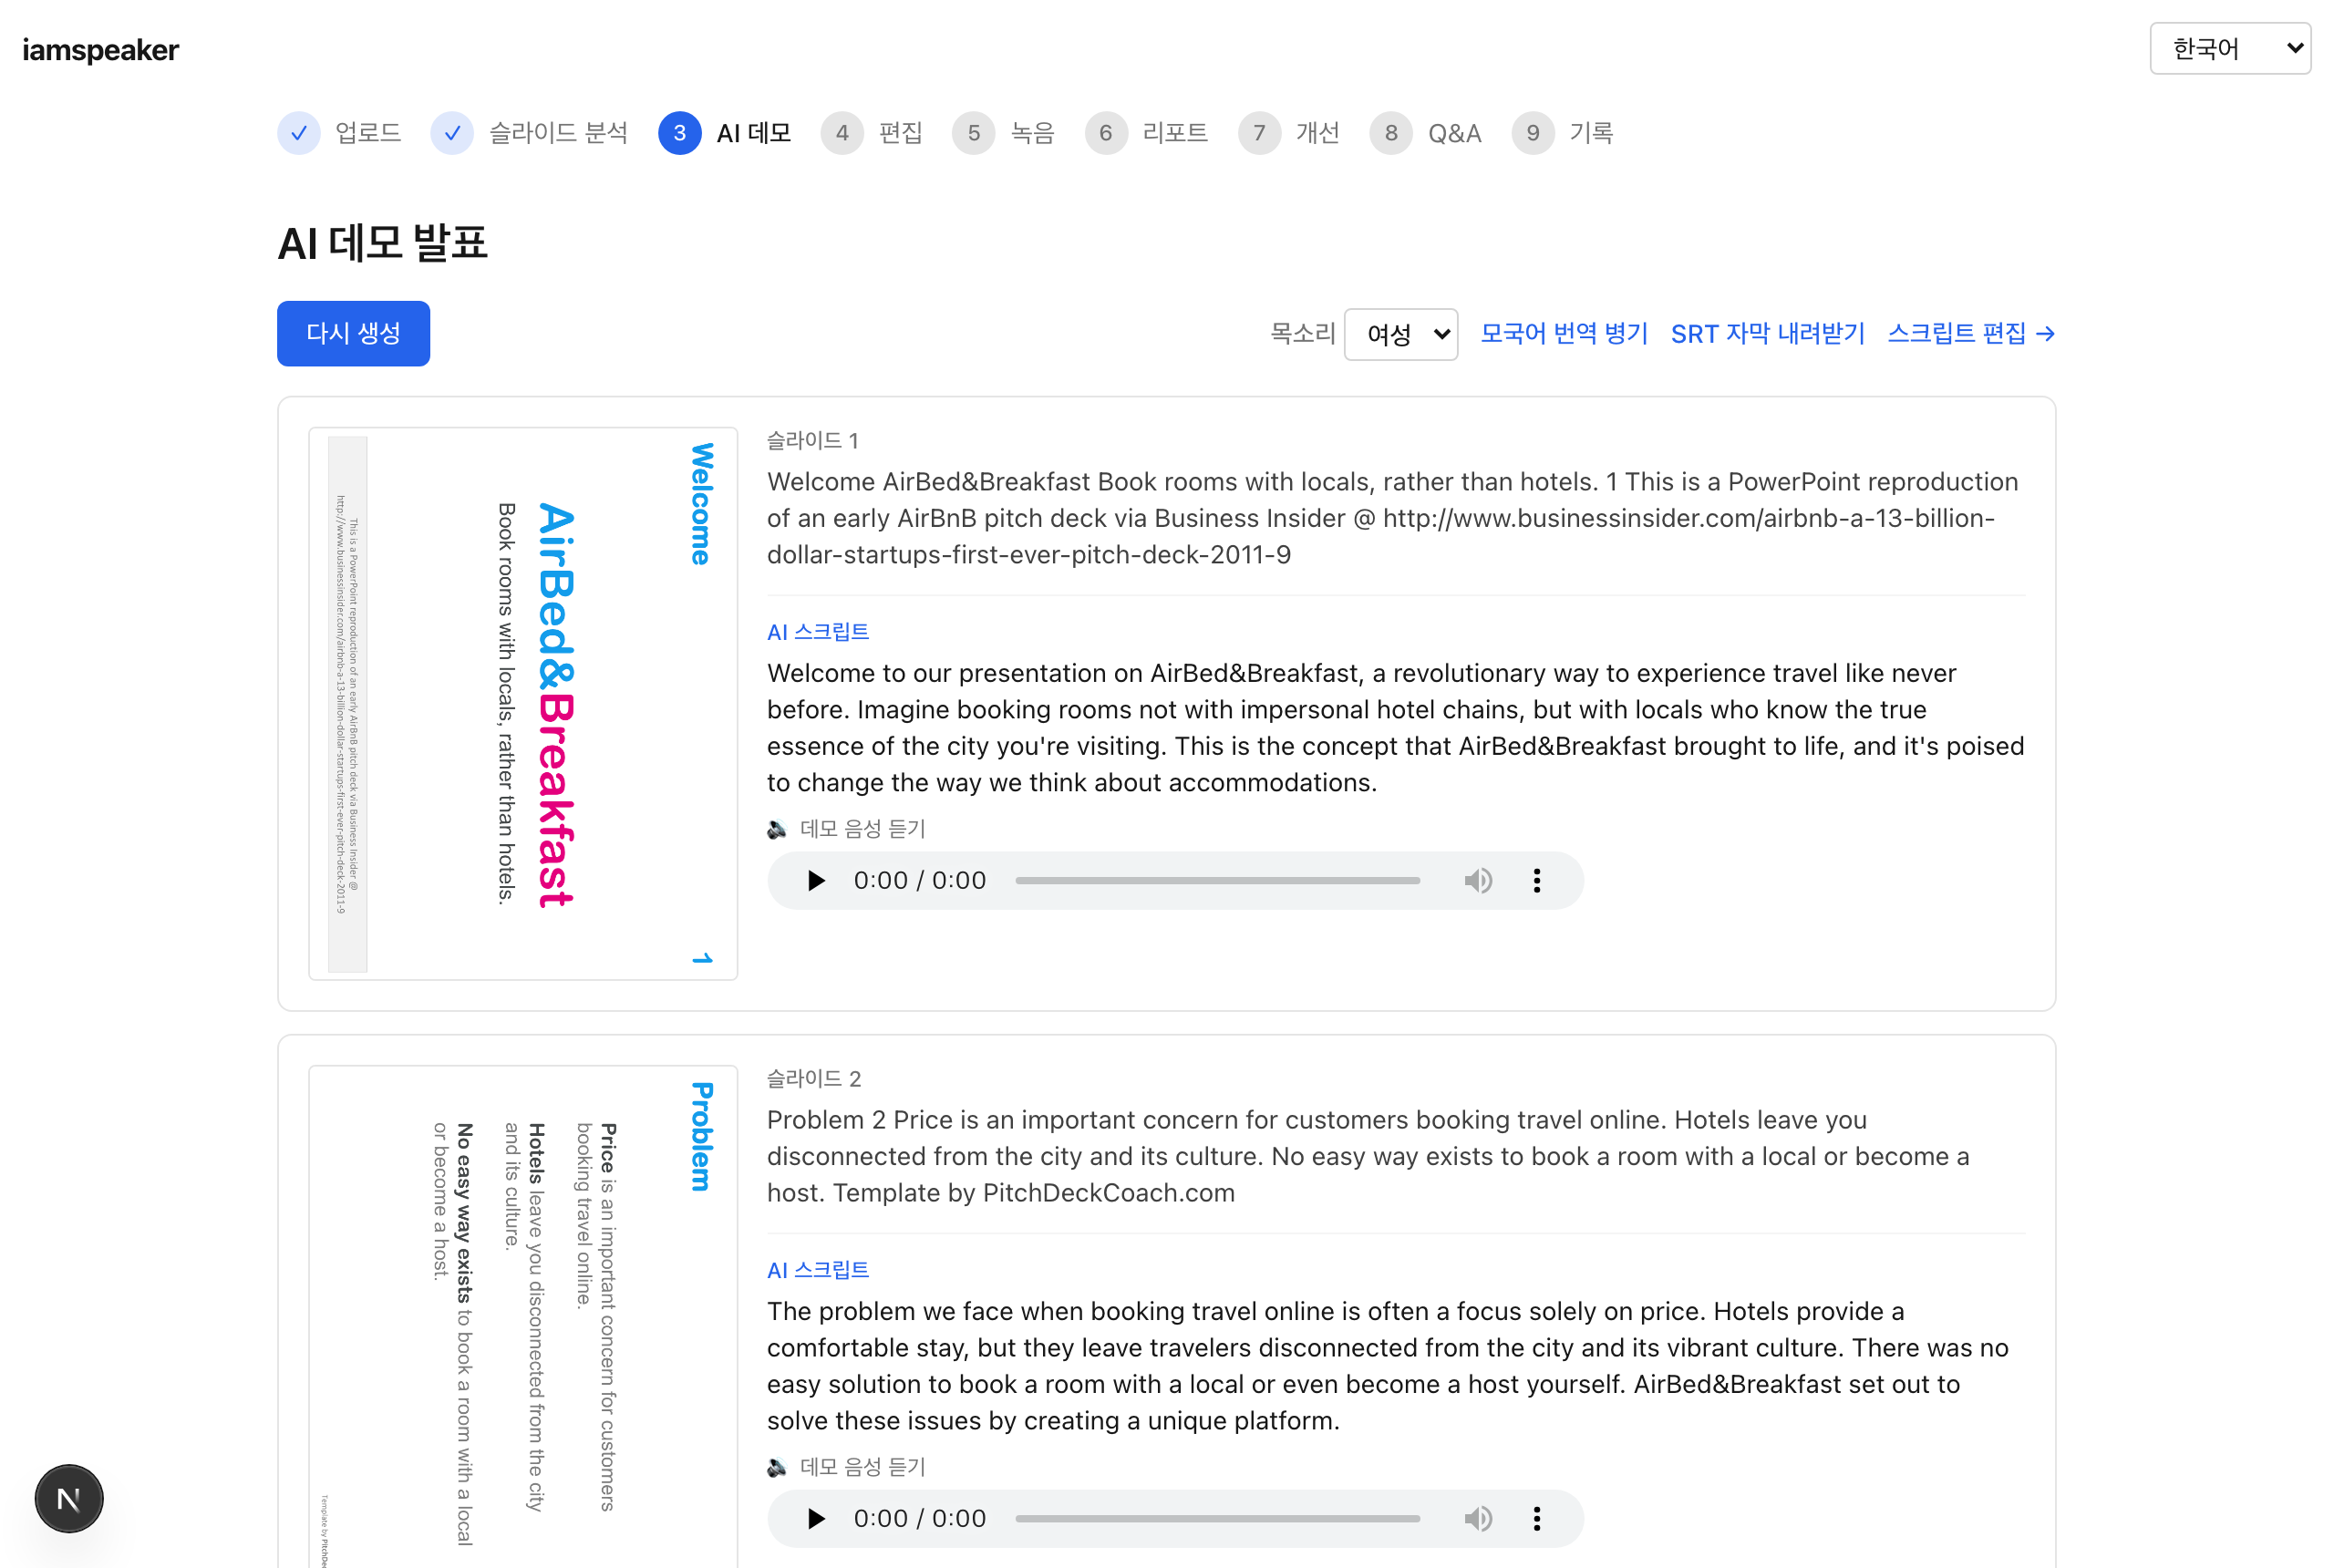
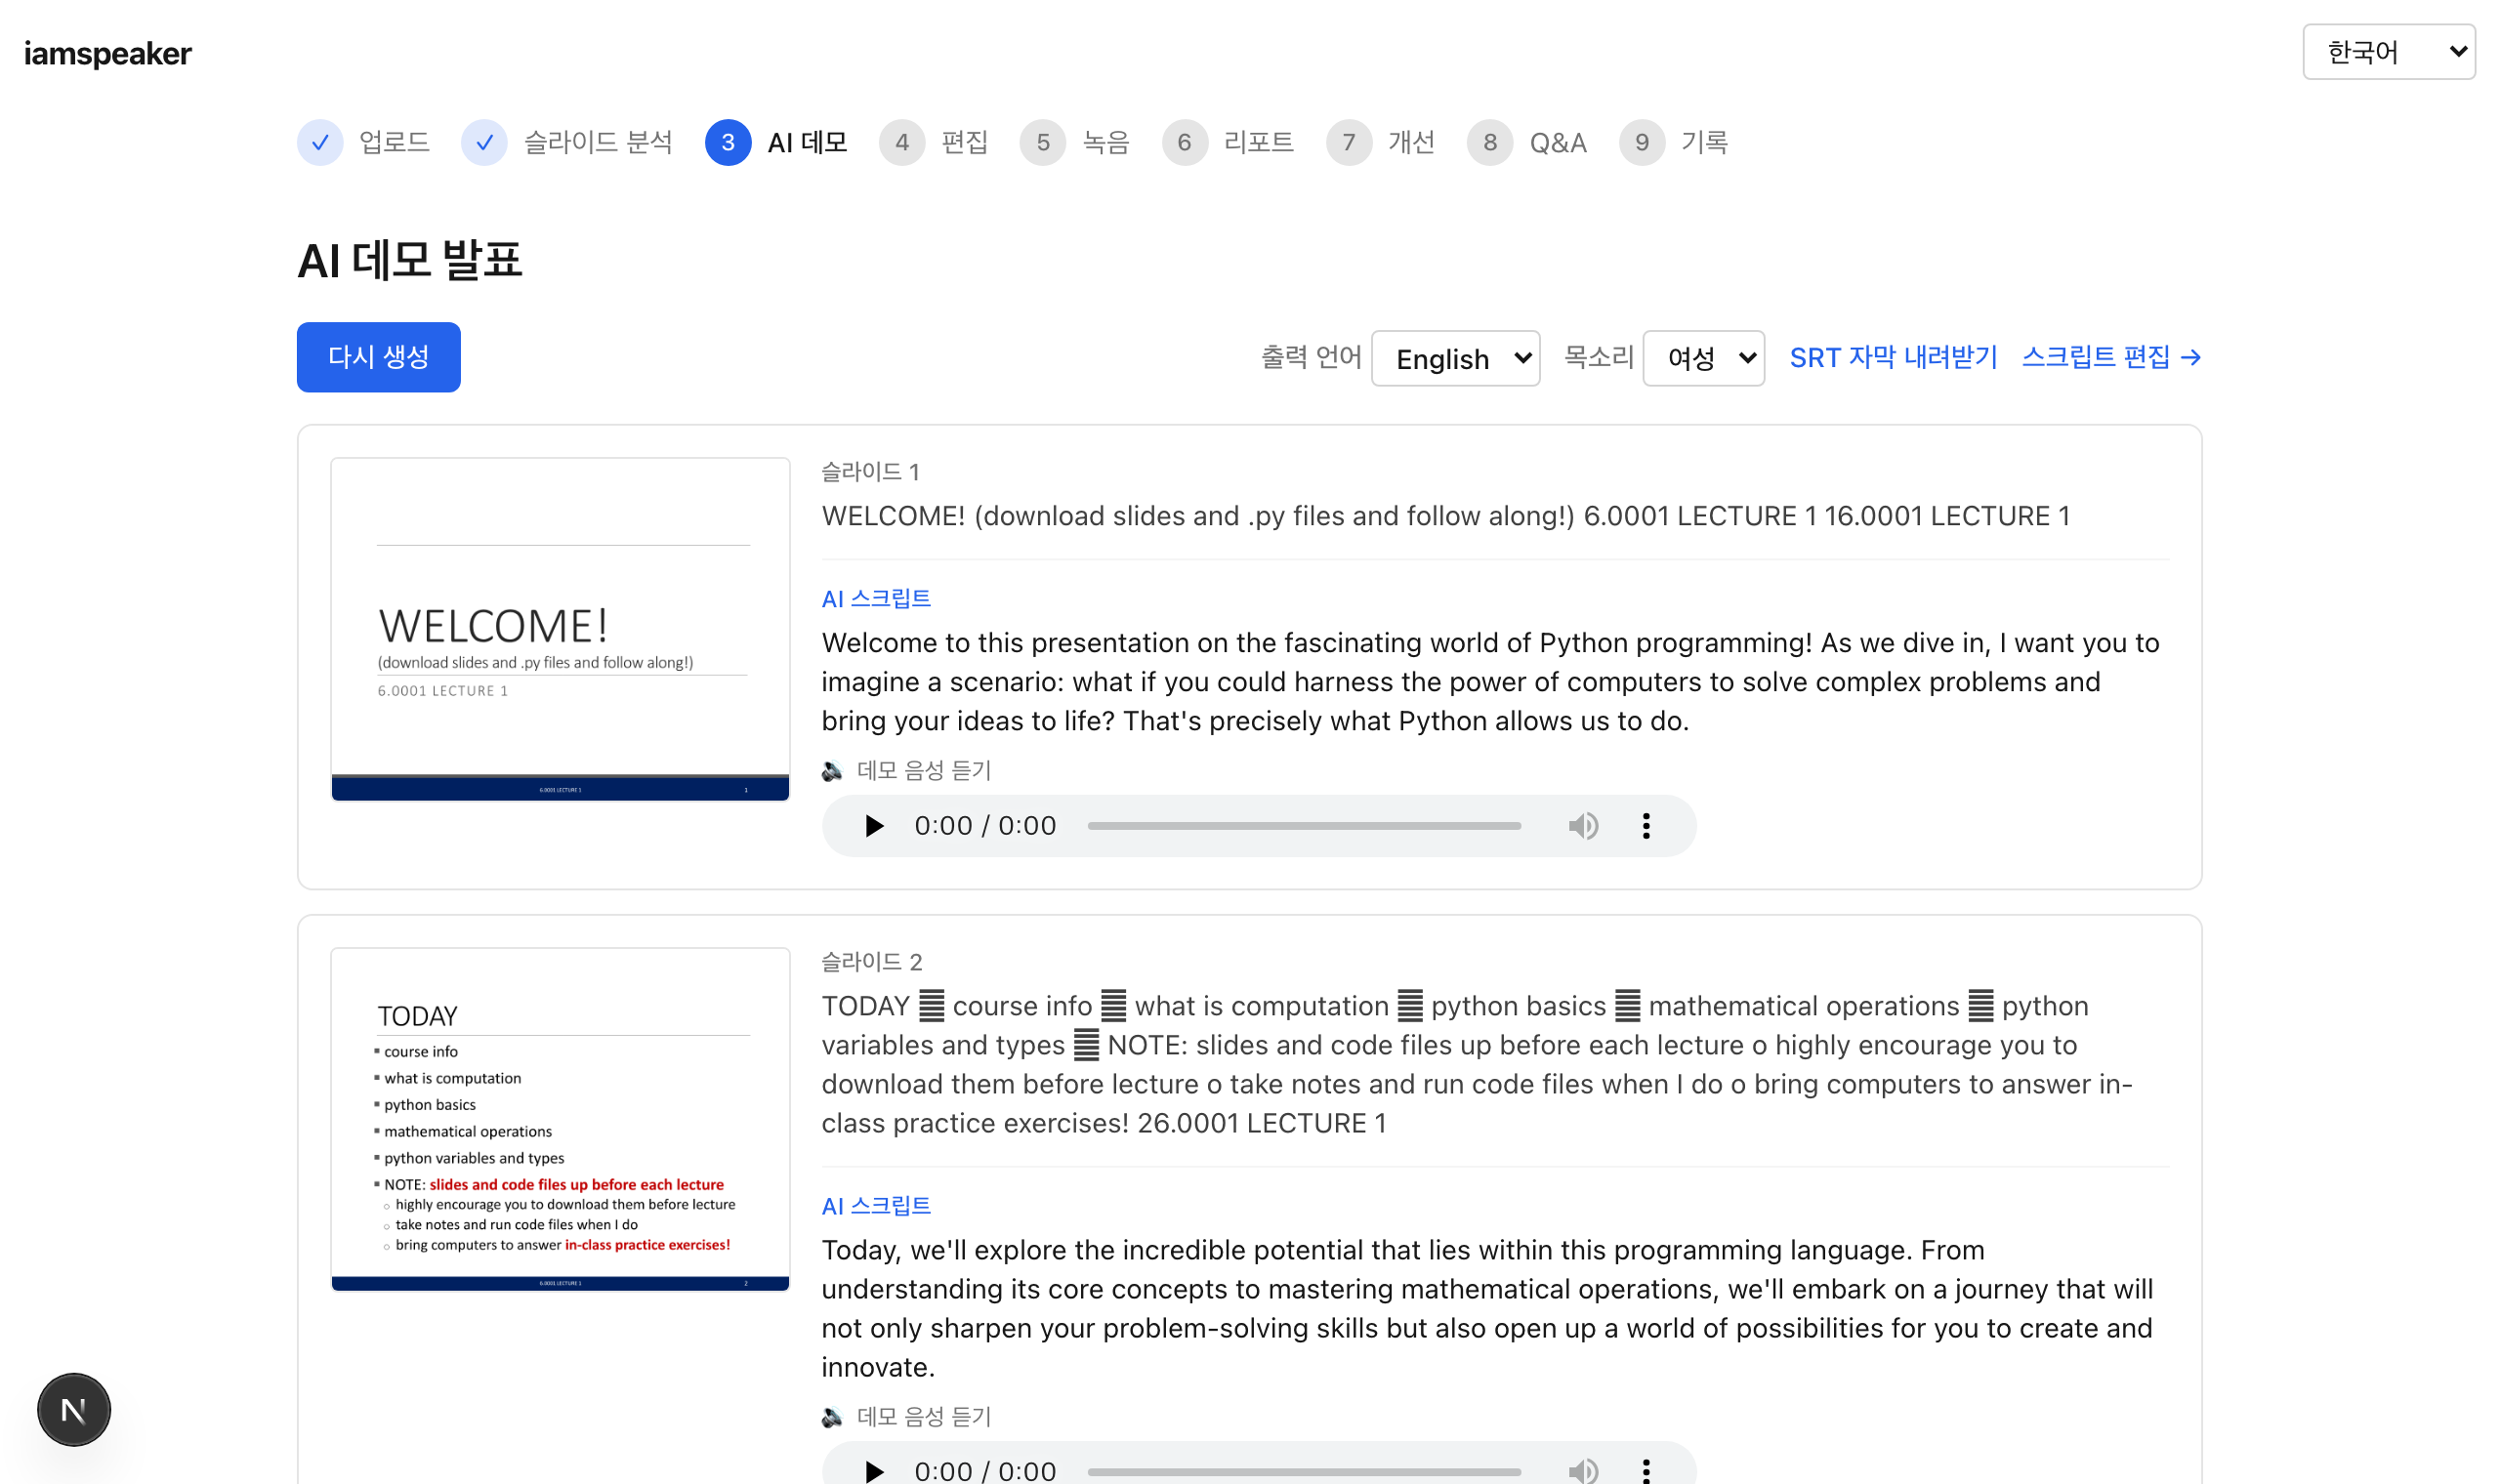
docs: v0.5.0 — README 코칭 확장·다국어 반영 + PROGRESS·데모 스크린샷 갱신
재리뷰 결과(biome0·tsc0·302 pass·TODO0·data안전) 기반 공개 준비 마무리:
- package.json·README(한·영) 배지·상태·기능 문단 v0.4.0→v0.5.0 + 새 축(단어 사용
  적합성[hedging+CEFR]·억양·다국어 출력·GOP 자동) 반영
- 데모 스크린샷(한·영) 정방향 슬라이드+출력 언어 컨트롤로 갱신
- PROGRESS §0 v0.5.0·테스트 302·다음 액션 현행화

diff --git a/PROGRESS.md b/PROGRESS.md
@@ -11,14 +11,14 @@
 |------|-----|
 | 프로젝트 | iamspeaker — 오픈소스 발표 연습 웹앱 (로컬 모델 우선) |
 | 위치 | `/Users/seunghpark/Downloads/iamspeaker` (git main) · GitHub **spark798/iamspeaker (private — 공개 준비 완료, GitHub 설정만 수동)**, **CI 그린** |
-| 현재 단계 | **v0.4.0 — 코치 루프 + 슬라이드 뷰어·리포트 시각화·단어 적합성 + 공개 준비**: (v0.3.0 코치 루프 위에) ①데모 **남성 음성** 옵션(기본 기억) ②**단어 사용 적합성** 축=위험표현/hedging 검출(필러와 별개 — 리포트 cue·improve 주입·데모 생성 회피, 라이브 0건) ③**슬라이드 썸네일 뷰어**(PDF=unpdf+@napi-rs/canvas, PPTX=LibreOffice→PDF, lazy 렌더+캐시 — 핵심 차별점 완성) ④**리포트 게이지 카드**(WPM 범위게이지·발음/전달점수 링, 의존성 0 SVG) ⑤**홈 랜딩**(히어로·3단계·신뢰포인트) ⑥**공개 준비**(README/CONTRIBUTING/storyboard 영어화+.ko 보존·`.github` 영어·한영 스크린샷·소셜카드·메타데이터 정합). |
-| 제품 방향 | **"매일 함께 훈련하는 코치"**(vs 범용 AI=일회성 선생님). 해자=연습 이력 축적 + **프라이버시(100% 로컬)·무료·OSS**. **비동기 사후 리뷰**. **대상=영어 발표를 연습·개선하려는 누구나(원어민 포함)** — 코치 루프(속도·필러·페이스·처방·원칙·**단어 적합성**)는 보편, **L1 발음/표현 교정은 비원어민 보너스**(앱은 nativeLanguage=en이면 native로 정상 동작). ✅완료: ①동기부여 ④루프백 ②처방 코칭 ⑤슬라이드 뷰어·시각화. **폐기**: 실시간. **보류**: GOP 자동 승격·CEFR 어휘수준(자료 확보). |
-| 다음 액션 | **GitHub public 전환**(수동: private→public, 소셜프리뷰 업로드[`docs/img/social-preview.png`], About·Topics) + **도그푸드**(실 발표 3회+ — 가장 중요, 사람). **대중 확장의 핵심 레버 = 설치 마찰 제거(원클릭 Docker / Tauri·Electron 데스크톱 앱)** — 기능·품질보다 *유통*이 병목. niche(프라이버시·기술가능·비용민감)에선 이미 경쟁력 있음. |
-| 최근 갱신 | 2026-06-27 |
+| 현재 단계 | **v0.5.0 — 코칭 확장(단어·억양·다국어) + 공개 준비 완료**: (v0.4.0 슬라이드 뷰어·게이지 위에) ①**단어 사용 적합성** 2축=위험표현(hedging)+**CEFR 고급 어휘**(에디터 라이브 점검·improve/데모 회피 가이드) ②**억양·강세(프로소디)** 분석(녹음 F0 자기상관 → 단조 피치 cue, 순수 TS 의존성0) ③**다국어 출력 마감**=대상 언어 선택 번역·SRT·**번역본 TTS**(es/zh 보이스) ④**GOP 자동 승격**(런타임 감지→wav2vec2/휴리스틱) ⑤홈 카드 실제 제품 썸네일(로케일별). **공개 준비 완료** — 코드/문서/스크린샷/메타데이터 모두 정합. |
+| 제품 방향 | **"매일 함께 훈련하는 코치"**(vs 범용 AI=일회성 선생님). 해자=연습 이력 축적 + **프라이버시(100% 로컬)·무료·OSS**. **비동기 사후 리뷰**. **대상=영어 발표를 연습·개선하려는 누구나(원어민 포함)** — 코치 루프(속도·필러·페이스·처방·원칙·**단어 적합성·억양**)는 보편, **L1 발음/표현 교정은 비원어민 보너스**. ✅완료: 동기부여·루프백·처방 코칭·슬라이드 뷰어·시각화·단어 적합성·억양·다국어출력·GOP자동. **폐기**: 실시간. |
+| 다음 액션 | **GitHub public 전환**(수동: private→public, 소셜프리뷰 업로드[`docs/img/social-preview.png`], About·Topics) + **도그푸드**(실 발표 3회+ — 가장 중요, 사람). 남은 백로그(환경 필요): **유통(원클릭 Docker/데스크톱)**·새기능 E2E·시각회귀·ko/ja 클라우드 TTS. 대중 확장 핵심 레버=설치 마찰 제거(*유통*이 병목). |
+| 최근 갱신 | 2026-06-28 |
 | 셸 준비 | `export PATH="$HOME/.local/bin:$PATH"; . "$HOME/.nvm/nvm.sh"; nvm use default` (비대화형 셸 필수) |
 | 로컬 도구 | Node 22(nvm)·pnpm 11(corepack) / ffmpeg 6·whisper-cli·cmake·gh → `~/.local/bin` / Ollama `hermes3:8b` / piper 보류 |
 | 스택 | Next 15·React 19·TS 5.9 strict·Tailwind 4·Biome·Vitest+Playwright·Drizzle+better-sqlite3·next-intl·pino·zod |
-| 테스트 | 275 통과 (+8 live-gated skip) + Playwright E2E. CI(lint/typecheck/test/build/E2E) 그린 |
+| 테스트 | 302 통과 (+8 live-gated skip) + Playwright E2E. CI(lint/typecheck/test/build/E2E) 그린 |
 | 문서 순서 | `PROGRESS.md` → `CLAUDE.md`(규칙) → `DEVELOPMENT.md`(계획) → `docs/storyboard.md`(EN, +`.ko`) · 공개 문서 영어 기본: `README.md`·`CONTRIBUTING.md`(각 `.ko.md` 보존) · 자동화: `docs/automation.md` |
 | 자동화 | 감독되는 자동화 3종: Driver(정지선 게이트키퍼)·Benchmarker(`docs/benchmark.md` 제안)·Reviewer. 규칙=`docs/automation.md` |
 

diff --git a/README.ko.md b/README.ko.md
@@ -4,11 +4,11 @@
 
 > 슬라이드를 업로드하면 AI가 먼저 시범 발표(데모)를 생성하고, 사용자가 참고해 연습 녹음을 하면 **속도·발음·필러워드**를 분석해 피드백과 개선 스크립트를 제공하는 **오픈소스 발표 연습 웹앱**.
 
-![license](https://img.shields.io/badge/license-MIT-blue) ![status](https://img.shields.io/badge/release-v0.4.0-green) ![local-first](https://img.shields.io/badge/models-local--first-orange)
+![license](https://img.shields.io/badge/license-MIT-blue) ![status](https://img.shields.io/badge/release-v0.5.0-green) ![local-first](https://img.shields.io/badge/models-local--first-orange)
 
-영어로 발표·피칭하는 **누구나** — 백지 상태에서 시작하지 않도록 AI가 먼저 시범 발표를 보여주고, 속도·필러·페이스·발음 등 객관적 데이터로 반복 개선하도록 돕는다. 코치 루프(측정→처방→재연습→추이)는 원어민·비원어민 모두에게 유효하며, **영어가 모국어가 아니면** 모국어(L1) 기반 발음·표현 교정까지 더해진다.
+영어로 발표·피칭하는 **누구나** — 백지 상태에서 시작하지 않도록 AI가 먼저 시범 발표를 보여주고, 속도·필러·페이스·발음·단어 선택·억양 등 객관적 데이터로 반복 개선하도록 돕는다. 코치 루프(측정→처방→재연습→추이)는 원어민·비원어민 모두에게 유효하며, **영어가 모국어가 아니면** 모국어(L1) 기반 발음·표현 교정까지 더해진다.
 
-> **상태: v0.4.0 — 코치 루프 + 슬라이드 뷰어·리포트 시각화·단어 사용 적합성.** v0.3.0 코치 루프 위에 AI 데모 **슬라이드 뷰어**(실제 슬라이드를 스크립트와 함께), **게이지 기반 리포트 시각화**, **단어 사용 적합성**(신뢰도를 낮추는 hedging 검출), 데모 남성 음성 추가. 로컬 모델만으로 전체 루프 완주 가능. 개발 기록은 [`PROGRESS.md`](PROGRESS.md), 기여는 [`CONTRIBUTING.md`](CONTRIBUTING.md).
+> **상태: v0.5.0 — 코칭 확장 + 다국어 출력.** v0.4.0 슬라이드 뷰어·게이지 위에 **단어 사용 코칭**(신뢰도를 낮추는 hedging + CEFR 고급 어휘), **억양 분석**(녹음에서 단조 피치 검출), **다국어 출력**(발표를 대상 언어로 번역+자막+음성), **GOP 자동 승격**(wav2vec2 가용 시 자동, 아니면 휴리스틱) 추가. 로컬 모델만으로 전체 루프 완주 가능. 개발 기록은 [`PROGRESS.md`](PROGRESS.md), 기여는 [`CONTRIBUTING.md`](CONTRIBUTING.md).
 
 ## 핵심 원칙
 - **오픈소스 / 셀프호스팅 우선** — 누구나 클론해서 띄울 수 있다.
@@ -18,7 +18,7 @@
 
 **"매일 함께 훈련하는 코치"** — 한 번 봐주는 선생님이 아니라, 연습 이력을 쌓으며 반복 개선을 돕습니다.
 
-**대시보드**(내 발표 관리·검색·삭제) → 슬라이드 업로드(PPTX/PDF) → 슬라이드 분석(디자인 원칙 기반 비평) → **AI 데모 발표**(명저 발표 원칙으로 self-improve한 스크립트 + Piper TTS) → 스크립트 편집 → 연습 녹음 → **분석 리포트**(WPM·필러·발음 점수/음소·시간배분 + **목표 대비 점수** + **처방적 코칭 노트**[슬라이드별 "어디서 무엇을" + 출처 있는 원칙 팁] + **PDF 내보내기**) → **개선 제안**(측정된 약점·원칙을 겨냥) → **이 스크립트로 다시 연습**(루프백) → **회차별 추이·베스트·목표 설정** → **회차 1:1 비교**(점수 델타 + 코칭 노트 변화) → 예상 Q&A 대비 → 다국어 번역·자막(SRT).
+**대시보드**(내 발표 관리·검색·삭제) → 슬라이드 업로드(PPTX/PDF) → 슬라이드 분석(디자인 원칙 기반 비평) → **AI 데모 발표**(명저 발표 원칙으로 self-improve한 스크립트를 실제 슬라이드와 함께 + Piper TTS) → 스크립트 편집(**라이브 어휘 점검** — 고급 단어 표시) → 연습 녹음 → **분석 리포트**(WPM·필러·발음 점수/음소·**억양**·시간배분 + **게이지 카드** + **목표 대비 점수** + **처방적 코칭 노트**[슬라이드별 "어디서 무엇을", **단어 사용** 위험 포함 + 출처 있는 원칙 팁] + **PDF 내보내기**) → **개선 제안**(측정된 약점·원칙을 겨냥) → **이 스크립트로 다시 연습**(루프백) → **회차별 추이·베스트·목표 설정** → **회차 1:1 비교**(점수 델타 + 코칭 노트 변화) → 예상 Q&A 대비 → **다국어 출력**(대상 언어로 번역·자막 SRT·음성).
 
 발표 특화 지표(속도·페이스 변화·필러·침묵·발음 GOP)는 로컬에서 동작하고, 연습 이력은 100% 내 기기에만 저장됩니다. UI 5개 언어(ko/en/ja/zh/es), L1 발음 교정 4개 언어(ko/ja/zh/es).
 

diff --git a/README.md b/README.md
@@ -4,11 +4,11 @@
 
 > An **open-source presentation-practice web app**: upload your slides, the AI gives a demo talk first, then you record your own run and it analyzes your **pace, pronunciation, and filler words** to return feedback and an improved script.
 
-![license](https://img.shields.io/badge/license-MIT-blue) ![status](https://img.shields.io/badge/release-v0.4.0-green) ![local-first](https://img.shields.io/badge/models-local--first-orange)
+![license](https://img.shields.io/badge/license-MIT-blue) ![status](https://img.shields.io/badge/release-v0.5.0-green) ![local-first](https://img.shields.io/badge/models-local--first-orange)
 
-For **anyone** who presents or pitches in English — instead of starting from a blank page, the AI shows a demo talk first, then helps you improve through objective data: pace, fillers, rhythm, pronunciation. The coach loop (measure → prescribe → re-practice → trend) works for native and non-native speakers alike, and **if English isn't your first language**, it adds native-language (L1) pronunciation and phrasing coaching on top.
+For **anyone** who presents or pitches in English — instead of starting from a blank page, the AI shows a demo talk first, then helps you improve through objective data: pace, fillers, rhythm, pronunciation, word choice, and intonation. The coach loop (measure → prescribe → re-practice → trend) works for native and non-native speakers alike, and **if English isn't your first language**, it adds native-language (L1) pronunciation and phrasing coaching on top.
 
-> **Status: v0.4.0 — coach loop + slide viewer, report visualization, and word-usage coaching.** On top of the v0.3.0 coach loop: an AI-demo **slide viewer** (render your actual slides next to the script), **gauge-based report visualization**, **word-usage appropriateness** (catches credibility-weakening hedging), and a male demo voice. The whole loop runs on local models alone. Dev log in [`PROGRESS.md`](PROGRESS.md), contributing in [`CONTRIBUTING.md`](CONTRIBUTING.md).
+> **Status: v0.5.0 — expanded coaching + multilingual output.** On top of the v0.4.0 slide viewer & gauges: **word-usage coaching** (credibility-weakening hedging + CEFR-level advanced vocabulary), **intonation analysis** (monotone-pitch detection from your recording), **multilingual output** (translate the talk + subtitles + voice into your target language), and **auto-promoted GOP pronunciation** (uses wav2vec2 when available, falls back to heuristics). The whole loop runs on local models alone. Dev log in [`PROGRESS.md`](PROGRESS.md), contributing in [`CONTRIBUTING.md`](CONTRIBUTING.md).
 
 ## Core principles
 - **Open source / self-host first** — anyone can clone and run it.
@@ -18,7 +18,7 @@ For **anyone** who presents or pitches in English — instead of starting from a
 
 **"A coach you train with every day"** — not a teacher who looks once, but a coach that builds your practice history and helps you improve over repeated takes.
 
-**Dashboard** (manage / search / delete your talks) → upload slides (PPTX/PDF) → slide critique (design-principle based) → **AI demo talk** (a script self-improved with principles from great public-speaking books + Piper TTS) → edit script → record a practice run → **analysis report** (WPM · fillers · pronunciation score/phonemes · time breakdown + **score vs. goal** + **prescriptive coaching notes** [per-slide "where & what" + sourced principle tips] + **PDF export**) → **improvement suggestions** (targeting your measured weaknesses) → **re-practice this script** (loopback) → **per-take trend · best · goal setting** → **take-to-take comparison** (score deltas + coaching-note changes) → expected-Q&A prep → multilingual translation · subtitles (SRT).
+**Dashboard** (manage / search / delete your talks) → upload slides (PPTX/PDF) → slide critique (design-principle based) → **AI demo talk** (a script self-improved with principles from great public-speaking books, shown next to your rendered slide + Piper TTS) → edit script (with a **live vocabulary check** — flags advanced words) → record a practice run → **analysis report** (WPM · fillers · pronunciation score/phonemes · **intonation** · time breakdown + **gauge cards** + **score vs. goal** + **prescriptive coaching notes** [per-slide "where & what", incl. **word-usage** risks, + sourced principle tips] + **PDF export**) → **improvement suggestions** (targeting your measured weaknesses) → **re-practice this script** (loopback) → **per-take trend · best · goal setting** → **take-to-take comparison** (score deltas + coaching-note changes) → expected-Q&A prep → **multilingual output** (translation · subtitles SRT · voice, in your target language).
 
 Presentation-specific metrics (pace, pace variation, fillers, silence, pronunciation GOP) run locally, and your practice history stays 100% on your own device. UI in 5 languages (ko/en/ja/zh/es), L1 pronunciation coaching in 4 (ko/ja/zh/es).
 